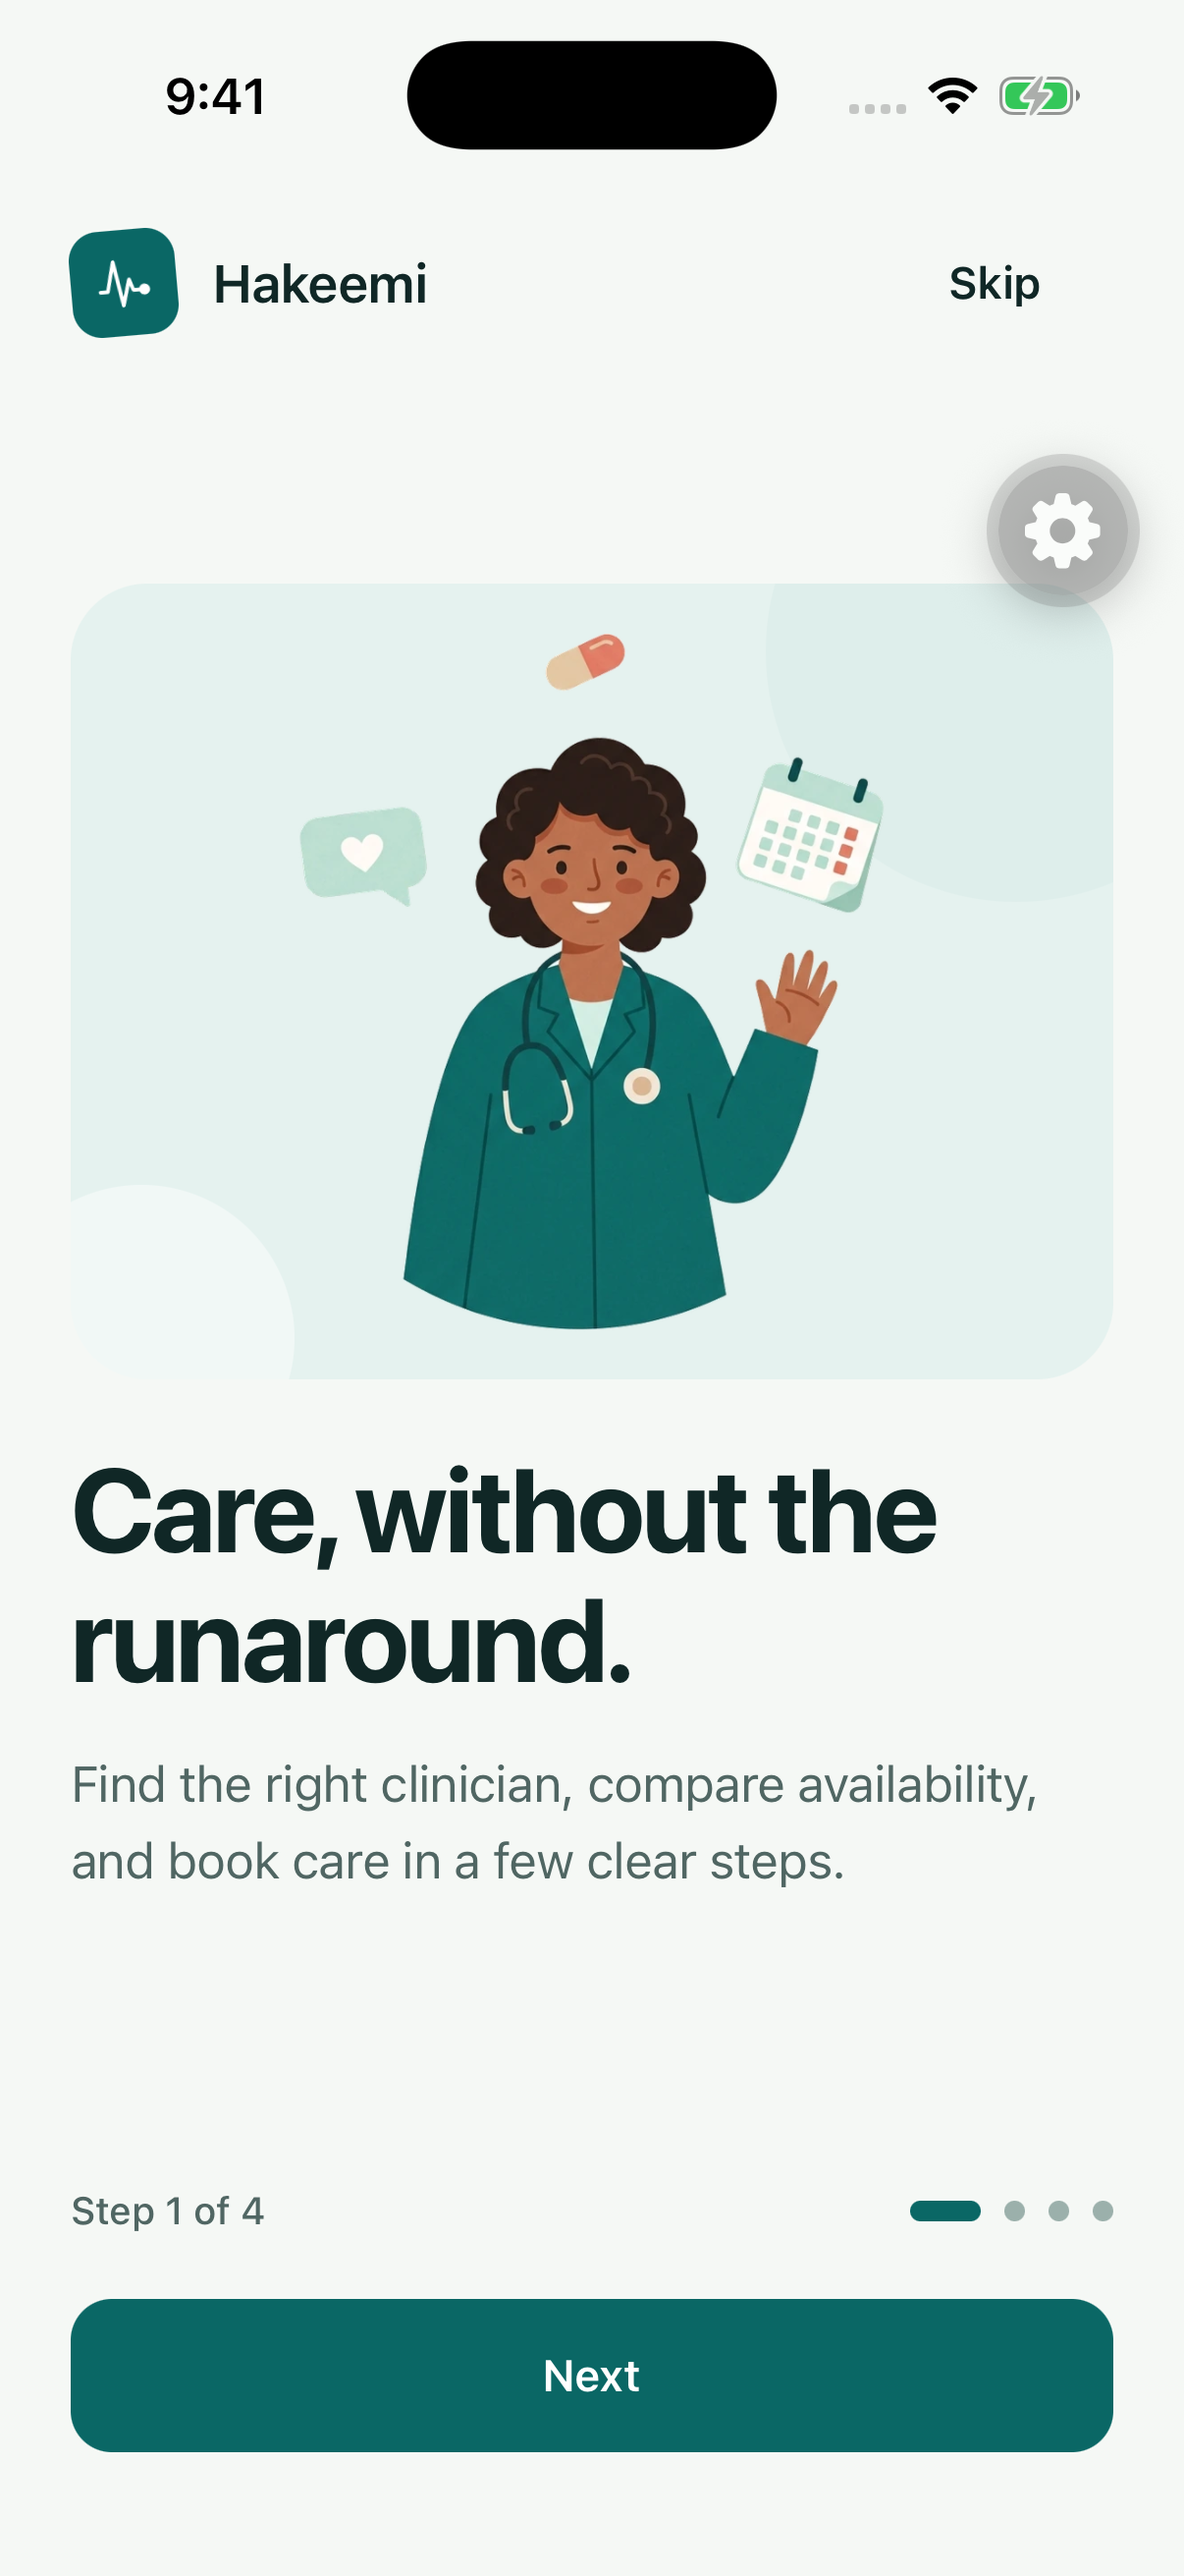
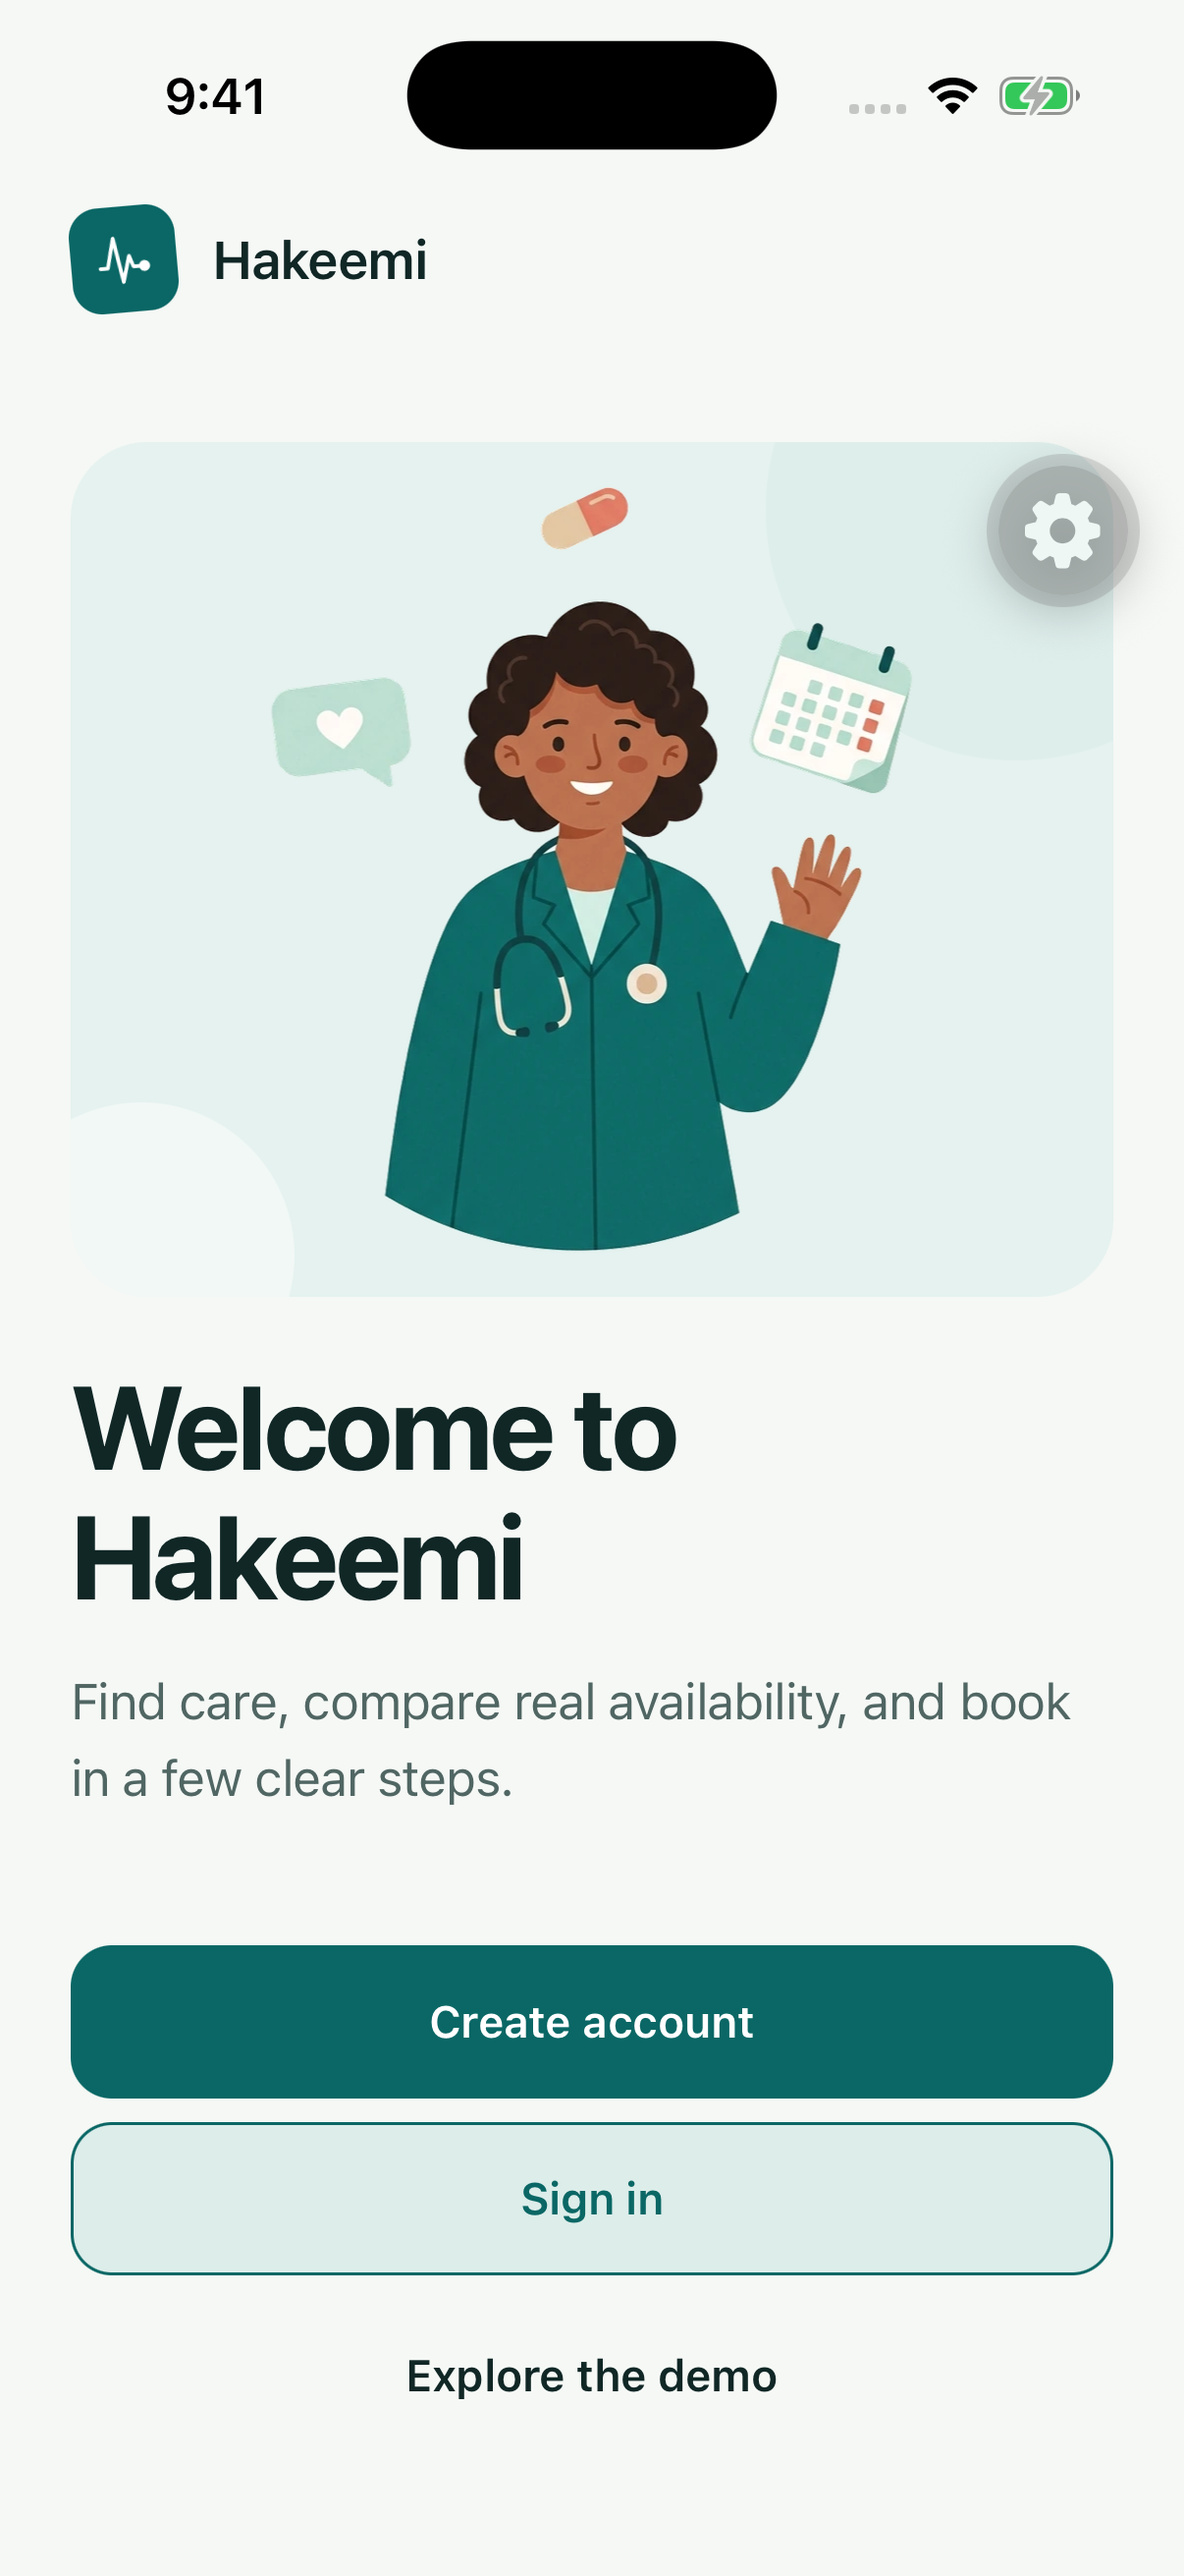
docs: record persisted welcome flow

diff --git a/README.md b/README.md
@@ -5,9 +5,9 @@
 > Hakeemi is a technical portfolio project. It uses fictional clinicians and
 > patient data and is not a healthcare service or clinical product.
 
-| Illustrated welcome                                                                                                                                 | Discovery with portraits                                                                                                                 | Provider profile                                                                                                                                  |
-| --------------------------------------------------------------------------------------------------------------------------------------------------- | ---------------------------------------------------------------------------------------------------------------------------------------- | ------------------------------------------------------------------------------------------------------------------------------------------------- |
-| <img src="docs/images/welcome-illustrated-native.png" alt="Welcome screen with an original doctor illustration and onboarding story" width="260" /> | <img src="docs/images/find-care-illustrated-native.png" alt="Find Care with illustrated doctor portraits on tinted tiles" width="260" /> | <img src="docs/images/provider-detail-illustrated-native.png" alt="Provider profile with a large ringed portrait and availability" width="260" /> |
+| Illustrated welcome                                                                                                                      | Discovery with portraits                                                                                                                 | Provider profile                                                                                                                                  |
+| ---------------------------------------------------------------------------------------------------------------------------------------- | ---------------------------------------------------------------------------------------------------------------------------------------- | ------------------------------------------------------------------------------------------------------------------------------------------------- |
+| <img src="docs/images/welcome-illustrated-native.png" alt="Signed-out Welcome screen with account and demo entry choices" width="260" /> | <img src="docs/images/find-care-illustrated-native.png" alt="Find Care with illustrated doctor portraits on tinted tiles" width="260" /> | <img src="docs/images/provider-detail-illustrated-native.png" alt="Provider profile with a large ringed portrait and availability" width="260" /> |
 
 | Arabic RTL discovery                                                                                                                     | Dark mode, Arabic                                                                                       | Account preferences                                                                                                                    |
 | ---------------------------------------------------------------------------------------------------------------------------------------- | ------------------------------------------------------------------------------------------------------- | -------------------------------------------------------------------------------------------------------------------------------------- |
@@ -39,10 +39,11 @@ sequence.
 
 ## What works today
 
-- A responsive four-step, full-screen onboarding sequence with conventional
-  Back, Next, and Skip controls; demo, sign-in, and account-creation choices
-  appear together only on the final step. Four-tab navigation is built with
-  typed Expo Router routes.
+- A first-run, four-step onboarding sequence with button and swipe navigation,
+  native horizontal page transitions, RTL direction support, and a
+  reduced-motion fallback. Completion is persisted; returning signed-out users
+  land on a separate Welcome screen that owns demo, sign-in, and account-creation
+  choices. Four-tab navigation is built with typed Expo Router routes.
 - Provider search, specialty filters, stable cursor pagination, and provider
   details backed by Firestore on native platforms.
 - Email/password sign-up, sign-in, password recovery, verification handoff,

diff --git a/docs/ROADMAP.md b/docs/ROADMAP.md
@@ -1102,12 +1102,15 @@ analytics instrumentation, and measured performance budgets remain open.
 The new visual identity includes a welcome hero, three feature illustrations,
 six fictional clinician portraits, six state illustrations, and an updated
 native screenshot gallery. Onboarding now uses four full-screen steps with one
-illustration and message per page plus Back, Next, Skip, progress, and final
-demo and authentication choices; it no longer stacks a vertical welcome above
-an embedded carousel. Sign-in and account creation appear only on the final
-step, and the portfolio/fictional-data disclaimer is intentionally kept out of
-the onboarding flow. The sequence remains the public signed-out portfolio entry
-rather than persisted first-run state. Provider portraits now use repaired
+illustration and message per page plus Back, Next, Skip, progress, and touch
+swiping; it no longer stacks a vertical welcome above an embedded carousel.
+The pages use native horizontal slide-out/slide-in transitions, reverse their
+physical order for Arabic RTL, and make button navigation instant when reduced
+motion is requested. Skip and final Continue persist a versioned AsyncStorage
+completion flag and lead to a separate signed-out Welcome route. Returning
+visitors therefore bypass onboarding and land on Welcome, which exclusively
+owns Create account, Sign in, and Explore demo. The portfolio/fictional-data
+disclaimer remains outside onboarding. Provider portraits now use repaired
 source artwork with complete hair, head-covering, and head silhouettes plus
 consistent transparent headroom; `contain` fitting keeps the full composition
 visible at card and profile sizes without sharp canvas-edge cuts. All 16
@@ -1116,11 +1119,13 @@ illustrations are native-safe WebP files totaling 819.1 KB, down from roughly
 configuration still references the Expo template symbol, and the repository
 hero predates the new identity.
 
-The 21 July 2026 onboarding/avatar refinement is complete in two reviewable
-commits: `d89c762` moved authentication to the finish step and removed the
-repeated disclaimer, while `ac3b7d6` replaced all six visibly cropped portrait
-sources with identity-preserving, naturally framed artwork. The refreshed iOS
-screenshots in `docs/images/` record both outcomes.
+The 21 July 2026 onboarding/avatar refinement is complete in reviewable commits.
+`d89c762` removed the repeated disclaimer, and its interim finish-step auth
+placement was superseded by `a5dcff4`, which introduced the persisted onboarding
+gate and standalone Welcome route. `abec842` added native paged motion, touch
+swiping, RTL order, and reduced-motion behavior. `ac3b7d6` replaced all six
+visibly cropped portrait sources with identity-preserving, naturally framed
+artwork. The refreshed iOS screenshots in `docs/images/` record the final state.
 
 ## Next execution queue
 

diff --git a/SESSION.md b/SESSION.md
@@ -155,11 +155,13 @@
   regeneration.
 - Asset performance: all 16 bundled illustrations now use native-safe WebP at
   819.1 KB total, down from roughly 4.6 MB. `npm run assets:check` enforces a
-  150 KB per-file and 1 MB aggregate CI budget. The onboarding remains a public
-  signed-out portfolio entry rather than persisted first-run state. Sign-in and
-  account creation are available only on its final step, and the disclaimer is
-  no longer repeated inside onboarding. The iOS icon configuration still uses
-  the Expo template symbol.
+  150 KB per-file and 1 MB aggregate CI budget. Onboarding is now a persisted
+  first-run sequence with horizontal button/swipe paging, Arabic RTL order, and
+  reduced-motion behavior. Skip and Continue lead to a separate reusable
+  Welcome route; only Welcome owns Create account, Sign in, and Explore demo.
+  Returning signed-out users bypass onboarding, and the disclaimer is no longer
+  repeated inside it. The iOS icon configuration still uses the Expo template
+  symbol.
 - Portfolio docs: the README now leads with the illustrated and Arabic/RTL
   evidence sets and
   the completed Phase 0–4 + Phase 5 story, `CONTRIBUTING.md` codifies the
